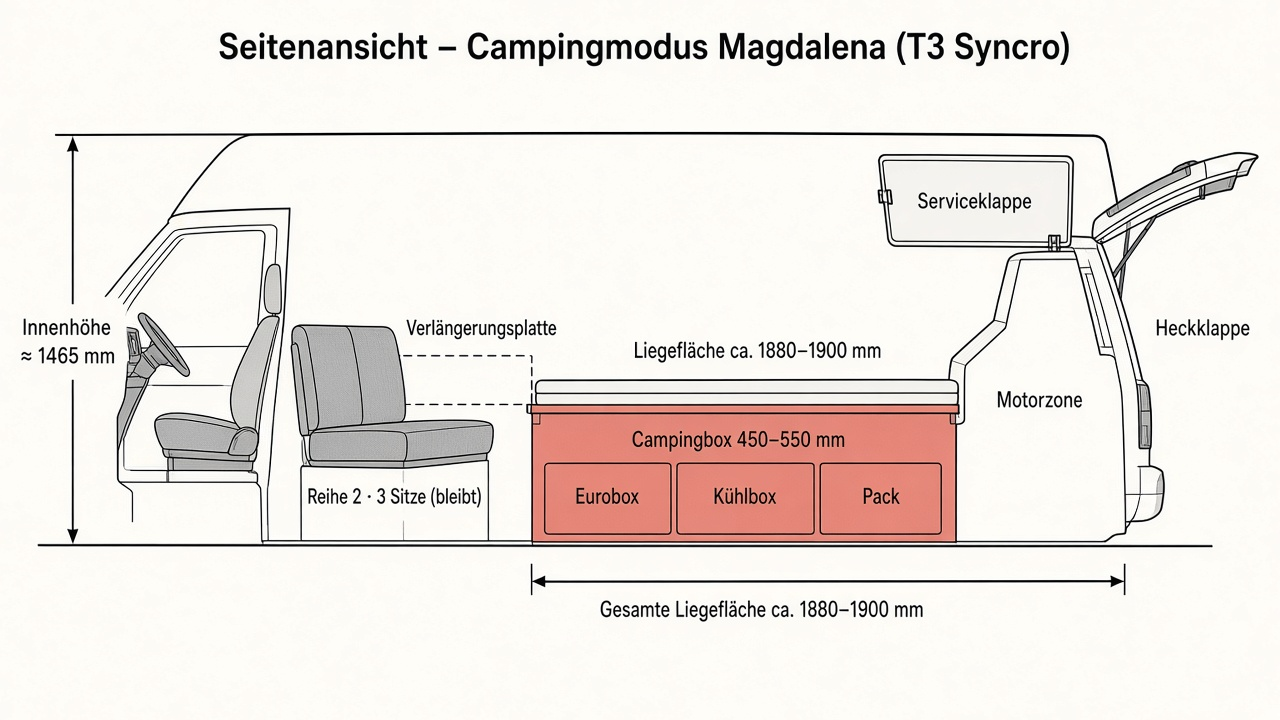
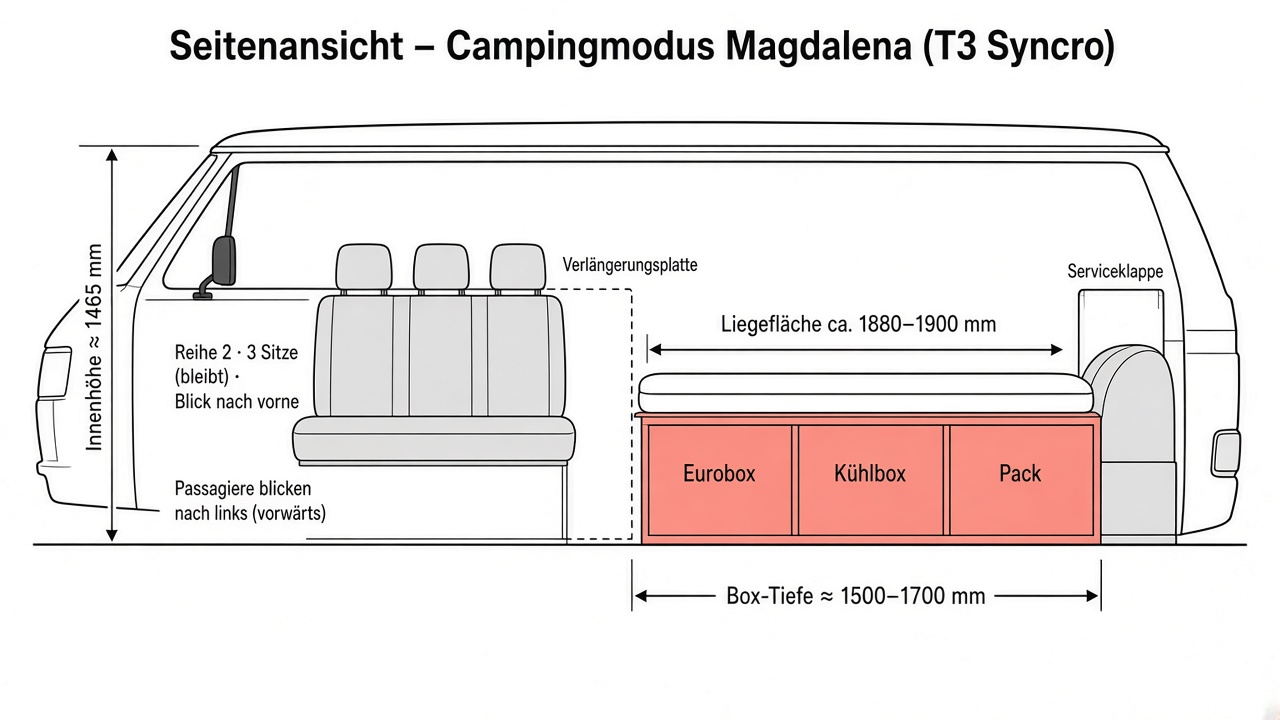
Fix side-view seat orientation to face forward
Redraw Reihe 2 with backrest toward the rear so passengers face
the front; update PNG and SVG Seitenansicht sketches.

Changed region(s): [[0.0, 0.1528, 1.0, 0.7639], [0.125, 0.0306, 0.875, 0.0917], [0.4062, 0.7944, 0.875, 0.8556]]

diff --git a/docs/t3-syncro-camping-referenz.md b/docs/t3-syncro-camping-referenz.md
@@ -463,6 +463,7 @@ Suchkriterien:
 | 2026-09-19 | Innenraumfotos + Motorrechnung + §57a abgelegt; Layout 3+3+3/KDO/Holzkiste; VIN/MV bestätigt |
 | 2026-09-22 | Skizzen Grundriss + Seitenansicht ergänzt (PNG/SVG) |
 | 2026-09-22 | Dedizierte Seitenansicht-Skizze ergänzt |
+| 2026-09-22 | Seitenansicht korrigiert: Reihe 2 blickt nach vorne |
 
 ---
 
